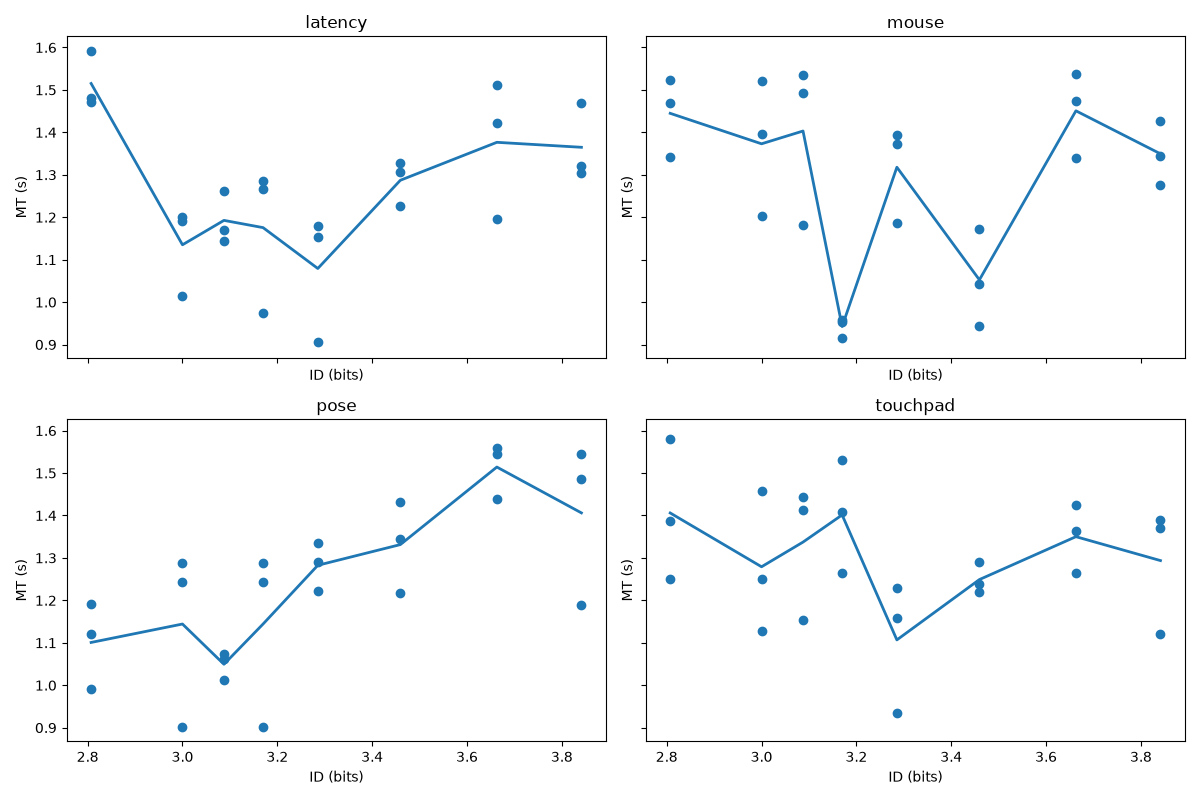
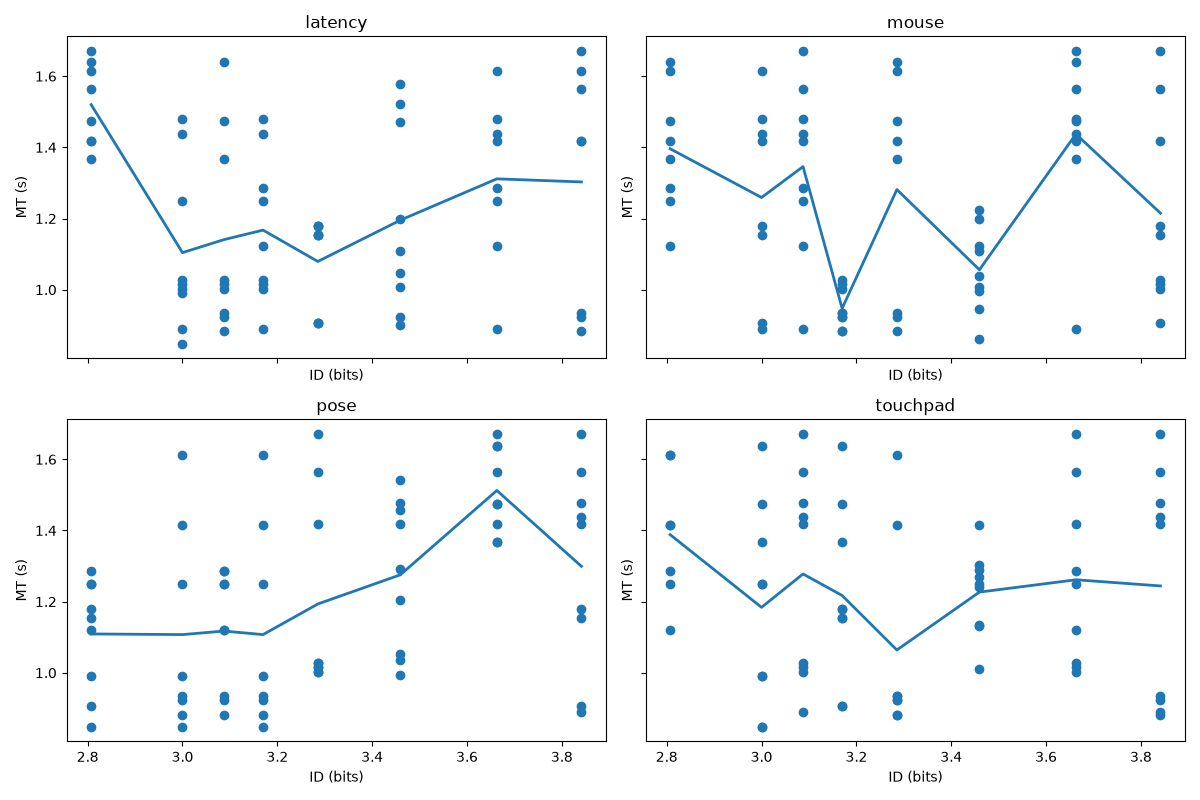
fixed fitt's mt plot logic

diff --git a/plot_creation.py b/plot_creation.py
@@ -31,7 +31,7 @@ def transform_fitts_to_single_line_cond(data):
     data = data.copy()
     mean_mt = (
         data
-        .groupby(["iteration","input", "difficulty"])["mt"]
+        .groupby(["iteration", "pid", "input", "difficulty"])["mt"]
         .mean()
         .reset_index()
     )